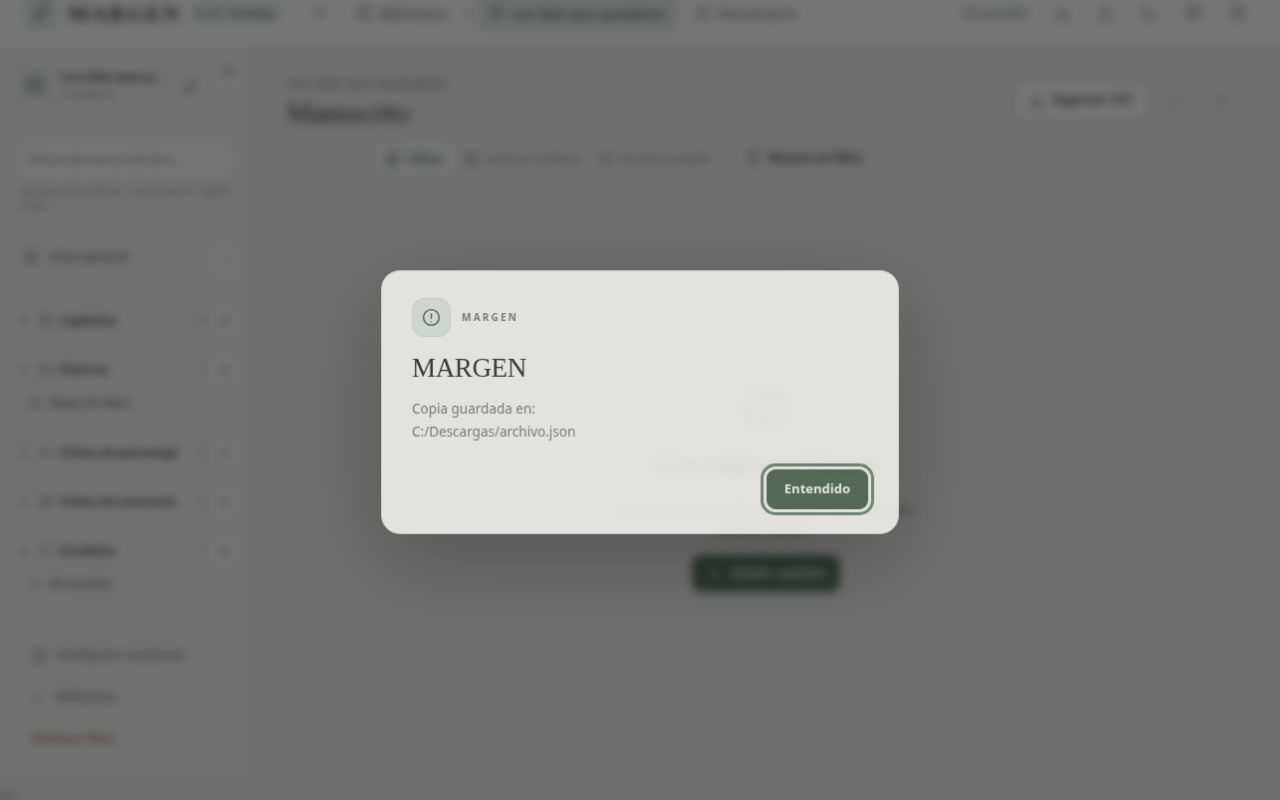
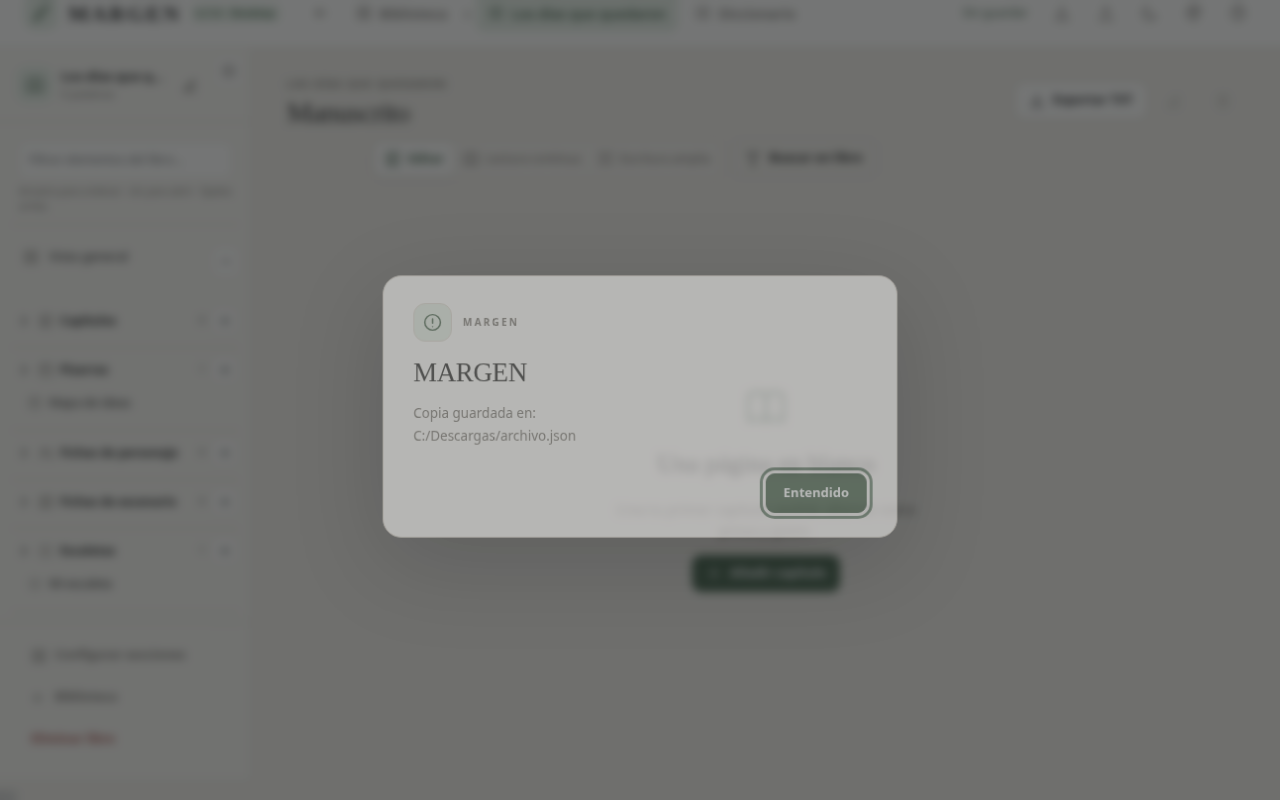
m

Changed region(s): [[0.2812, 0.3125, 0.7188, 0.6875]]

diff --git a/dist/assets/margen-121.js b/dist/assets/margen-121.js
@@ -393,3 +393,81 @@ render=function(){
   m1211R4SyncPanelTop();m1211R4BindEditHistory();
   return result;
 };
+
+
+/* ===== 1.12.1 R5 · historial estructural de pizarra + cronología simplificada ===== */
+function m1211R5BlurBoardEditor(){
+  const active=document.activeElement;
+  if(active?.closest?.('#board-items')&&active.matches?.('input,textarea,[contenteditable="true"]'))active.blur();
+}
+
+/* Mover/redimensionar es una operación estructural: siempre nace con un snapshot
+   propio y saca el foco de los campos de texto para que Ctrl+Z no termine en el
+   historial nativo del input después de soltar el objeto. */
+const m1211R5PrevStartItemDrag=startItemDrag;
+startItemDrag=function(event,item,node,kind){
+  if(state.view==='boards'&&activeBoard()?.boardType==='free'){
+    m1211R5BlurBoardEditor();
+    pushBoardUndo();
+  }
+  return m1211R5PrevStartItemDrag(event,item,node,kind);
+};
+
+const m1211R5PrevDeleteSelected=deleteSelected;
+deleteSelected=function(){
+  if(state.view==='boards'&&activeBoard()?.boardType==='free')m1211R5BlurBoardEditor();
+  return m1211R5PrevDeleteSelected();
+};
+
+/* Los tiradores nuevos no pasan por startItemDrag; aseguramos foco e historial
+   antes de cualquier resize. La deduplicación de pushBoardUndo evita snapshots
+   repetidos aunque una capa anterior ya hubiese guardado el mismo estado. */
+function m1211R5BindStructuralBoardHistory(){
+  if(state.view!=='boards'||activeBoard()?.boardType!=='free')return;
+  document.querySelectorAll('#board-items .m1211-resize,[data-m1211-stamp-hit]').forEach(handle=>{
+    if(handle.dataset.m1211R5HistoryBound)return;
+    handle.dataset.m1211R5HistoryBound='1';
+    handle.addEventListener('pointerdown',()=>{m1211R5BlurBoardEditor();pushBoardUndo()},true);
+  });
+}
+
+const m1211R5PrevRenderBoardElements=renderBoardElements;
+renderBoardElements=function(){const result=m1211R5PrevRenderBoardElements();m1211R5BindStructuralBoardHistory();return result};
+
+/* La línea temporal deja de mostrar índice y óvalo: cada acontecimiento conserva
+   únicamente su tallo vertical hacia la línea principal. */
+const m1211R5PrevTimePoint=m131TimePoint;
+m131TimePoint=function(event,index){
+  return m1211R5PrevTimePoint(event,index)
+    .replace(/<span class="m131-time-dot"><\/span>/,'')
+    .replace(/<span class="m131-time-order"[^>]*>[\s\S]*?<\/span>/,'');
+};
+
+/* El color se escribe siempre en el objeto del acontecimiento y, al cerrar el
+   selector, se fuerza el guardado del libro. Así no depende sólo del repaint. */
+const m1211R5PrevBindTimeline=m1211BindTimeline;
+m1211BindTimeline=function(){
+  m1211R5PrevBindTimeline();
+  if(state.view!=='chronologies')return;
+  const t=activeChronology(),picker=document.querySelector('#m131-time-editor [data-m1211-event-color]');
+  if(!t||!picker)return;
+  let undoCaptured=false;
+  const current=()=>t.events.find(x=>x.id===m131TimelineSelectedId)||m131CurrentEvent();
+  const capture=()=>{if(!undoCaptured){m1211PushChronUndo(t);undoCaptured=true}};
+  const apply=()=>{
+    const event=current();if(!event)return;
+    const value=/^#[0-9a-fA-F]{6}$/.test(picker.value||'')?picker.value.toLowerCase():m1211Palette[0];
+    event.color=value;picker.value=value;m1211ApplyTimelineColor(event.id,value);changed();
+  };
+  picker.onpointerdown=capture;
+  picker.onfocus=capture;
+  picker.oninput=()=>{capture();apply()};
+  picker.onchange=()=>{capture();apply();undoCaptured=false;try{const out=save?.();out?.catch?.(()=>{})}catch(_e){}};
+};
+
+const m1211R5PrevRender=render;
+render=function(){
+  const result=m1211R5PrevRender();
+  m1211R5BindStructuralBoardHistory();
+  return result;
+};

diff --git a/frontend/assets/margen-121.js b/frontend/assets/margen-121.js
@@ -393,3 +393,81 @@ render=function(){
   m1211R4SyncPanelTop();m1211R4BindEditHistory();
   return result;
 };
+
+
+/* ===== 1.12.1 R5 · historial estructural de pizarra + cronología simplificada ===== */
+function m1211R5BlurBoardEditor(){
+  const active=document.activeElement;
+  if(active?.closest?.('#board-items')&&active.matches?.('input,textarea,[contenteditable="true"]'))active.blur();
+}
+
+/* Mover/redimensionar es una operación estructural: siempre nace con un snapshot
+   propio y saca el foco de los campos de texto para que Ctrl+Z no termine en el
+   historial nativo del input después de soltar el objeto. */
+const m1211R5PrevStartItemDrag=startItemDrag;
+startItemDrag=function(event,item,node,kind){
+  if(state.view==='boards'&&activeBoard()?.boardType==='free'){
+    m1211R5BlurBoardEditor();
+    pushBoardUndo();
+  }
+  return m1211R5PrevStartItemDrag(event,item,node,kind);
+};
+
+const m1211R5PrevDeleteSelected=deleteSelected;
+deleteSelected=function(){
+  if(state.view==='boards'&&activeBoard()?.boardType==='free')m1211R5BlurBoardEditor();
+  return m1211R5PrevDeleteSelected();
+};
+
+/* Los tiradores nuevos no pasan por startItemDrag; aseguramos foco e historial
+   antes de cualquier resize. La deduplicación de pushBoardUndo evita snapshots
+   repetidos aunque una capa anterior ya hubiese guardado el mismo estado. */
+function m1211R5BindStructuralBoardHistory(){
+  if(state.view!=='boards'||activeBoard()?.boardType!=='free')return;
+  document.querySelectorAll('#board-items .m1211-resize,[data-m1211-stamp-hit]').forEach(handle=>{
+    if(handle.dataset.m1211R5HistoryBound)return;
+    handle.dataset.m1211R5HistoryBound='1';
+    handle.addEventListener('pointerdown',()=>{m1211R5BlurBoardEditor();pushBoardUndo()},true);
+  });
+}
+
+const m1211R5PrevRenderBoardElements=renderBoardElements;
+renderBoardElements=function(){const result=m1211R5PrevRenderBoardElements();m1211R5BindStructuralBoardHistory();return result};
+
+/* La línea temporal deja de mostrar índice y óvalo: cada acontecimiento conserva
+   únicamente su tallo vertical hacia la línea principal. */
+const m1211R5PrevTimePoint=m131TimePoint;
+m131TimePoint=function(event,index){
+  return m1211R5PrevTimePoint(event,index)
+    .replace(/<span class="m131-time-dot"><\/span>/,'')
+    .replace(/<span class="m131-time-order"[^>]*>[\s\S]*?<\/span>/,'');
+};
+
+/* El color se escribe siempre en el objeto del acontecimiento y, al cerrar el
+   selector, se fuerza el guardado del libro. Así no depende sólo del repaint. */
+const m1211R5PrevBindTimeline=m1211BindTimeline;
+m1211BindTimeline=function(){
+  m1211R5PrevBindTimeline();
+  if(state.view!=='chronologies')return;
+  const t=activeChronology(),picker=document.querySelector('#m131-time-editor [data-m1211-event-color]');
+  if(!t||!picker)return;
+  let undoCaptured=false;
+  const current=()=>t.events.find(x=>x.id===m131TimelineSelectedId)||m131CurrentEvent();
+  const capture=()=>{if(!undoCaptured){m1211PushChronUndo(t);undoCaptured=true}};
+  const apply=()=>{
+    const event=current();if(!event)return;
+    const value=/^#[0-9a-fA-F]{6}$/.test(picker.value||'')?picker.value.toLowerCase():m1211Palette[0];
+    event.color=value;picker.value=value;m1211ApplyTimelineColor(event.id,value);changed();
+  };
+  picker.onpointerdown=capture;
+  picker.onfocus=capture;
+  picker.oninput=()=>{capture();apply()};
+  picker.onchange=()=>{capture();apply();undoCaptured=false;try{const out=save?.();out?.catch?.(()=>{})}catch(_e){}};
+};
+
+const m1211R5PrevRender=render;
+render=function(){
+  const result=m1211R5PrevRender();
+  m1211R5BindStructuralBoardHistory();
+  return result;
+};

diff --git a/dist/assets/margen-121.css b/dist/assets/margen-121.css
@@ -147,3 +147,15 @@
   box-shadow:0 0 0 2px color-mix(in srgb,var(--m1211-event) 20%,transparent)!important;
 }
 .m131-time-point .m131-time-card small{color:color-mix(in srgb,var(--m1211-event) 72%,var(--ink))!important}
+
+
+/* ===== 1.12.1 R5 · cronología limpia ===== */
+/* Sin números ni óvalos: sólo línea principal + tallo vertical de cada evento. */
+.m131-time-point .m131-time-dot,
+.m131-time-point .m131-time-order{display:none!important}
+.m131-time-point:before{
+  width:3px!important;
+  border-radius:3px!important;
+  background:var(--m1211-event)!important;
+  box-shadow:none!important;
+}

diff --git a/frontend/assets/margen-121.css b/frontend/assets/margen-121.css
@@ -147,3 +147,15 @@
   box-shadow:0 0 0 2px color-mix(in srgb,var(--m1211-event) 20%,transparent)!important;
 }
 .m131-time-point .m131-time-card small{color:color-mix(in srgb,var(--m1211-event) 72%,var(--ink))!important}
+
+
+/* ===== 1.12.1 R5 · cronología limpia ===== */
+/* Sin números ni óvalos: sólo línea principal + tallo vertical de cada evento. */
+.m131-time-point .m131-time-dot,
+.m131-time-point .m131-time-order{display:none!important}
+.m131-time-point:before{
+  width:3px!important;
+  border-radius:3px!important;
+  background:var(--m1211-event)!important;
+  box-shadow:none!important;
+}

diff --git a/pruebas/test_1121_visual_tools.py b/pruebas/test_1121_visual_tools.py
@@ -98,6 +98,21 @@ with sync_playwright() as pw:
  assert page.evaluate("!activeBoard().elements.some(x=>x.id==='n1'||x.id==='n2')")
  page.keyboard.press('Control+z');page.wait_for_timeout(50)
  assert page.evaluate("activeBoard().elements.some(x=>x.id==='n1')&&activeBoard().elements.some(x=>x.id==='n2')")
+ # Movimiento real de una nota debe entrar en el historial estructural.
+ page.evaluate("boardSelectedIds.clear();selectedElement=null;m1211SyncBoardSelection()")
+ oldpos=page.evaluate("(()=>{const n=activeBoard().elements.find(x=>x.id==='n1');return [n.x,n.y]})()")
+ n1=page.locator('.board-item[data-eid="n1"]');nb=n1.bounding_box()
+ page.mouse.move(nb['x']+nb['width']*0.55,nb['y']+nb['height']*0.72);page.mouse.down();page.mouse.move(nb['x']+nb['width']*0.55+55,nb['y']+nb['height']*0.72+28,steps=8);page.mouse.up();page.wait_for_timeout(45)
+ moved=page.evaluate("(()=>{const n=activeBoard().elements.find(x=>x.id==='n1');return [n.x,n.y]})()")
+ assert moved!=oldpos,(oldpos,moved)
+ page.keyboard.press('Control+z');page.wait_for_timeout(60)
+ restored=page.evaluate("(()=>{const n=activeBoard().elements.find(x=>x.id==='n1');return [n.x,n.y]})()")
+ assert restored==oldpos,(oldpos,moved,restored)
+ # Y borrar después de una operación estructural también debe poder recuperarse.
+ handle=page.locator('.board-item[data-eid="n1"] .item-handle');hb=handle.bounding_box();page.mouse.move(hb['x']+4,hb['y']+4);page.mouse.down();page.mouse.up();page.wait_for_timeout(20);page.keyboard.press('Delete');page.wait_for_timeout(40)
+ assert page.evaluate("!activeBoard().elements.some(x=>x.id==='n1')")
+ page.keyboard.press('Control+z');page.wait_for_timeout(60)
+ assert page.evaluate("activeBoard().elements.some(x=>x.id==='n1')")
  # Marco arrastrando sobre el fondo también selecciona ambas notas.
  page.evaluate("boardSelectedIds.clear();selectedElement=null;m1211SyncBoardSelection()")
  wr=page.locator('#board-world').bounding_box();vp=page.locator('#board-viewport').bounding_box()
@@ -138,6 +153,8 @@ with sync_playwright() as pw:
  # Cronología: color visible + controles bajo la línea + arrastre por puntero + Ctrl+Z.
  page.evaluate("()=>{state.view='chronologies';state.activeChronologyId='t1';m131TimelineSelectedChron='t1';m131TimelineSelectedId='e1';render()}");page.wait_for_timeout(100)
  assert page.locator('[data-m1211-event-color]').count()==1
+ assert page.locator('.m131-time-dot').count()==0
+ assert page.locator('.m131-time-order').count()==0
  row=page.locator('[data-m1211-timeline-insert-row]'); assert row.count()==1
  assert row.locator('[data-m1211-insert="before"]').count()==1 and row.locator('[data-m1211-insert="after"]').count()==1
  assert page.locator('#m131-time-editor [data-m1211-insert]').count()==0

diff --git a/pruebas/test_111_distribution.py b/pruebas/test_111_distribution.py
@@ -71,6 +71,6 @@ for required in ['DB_SCHEMA_VERSION','schema_migrations','desktop_startup_health
     assert required in rust,required
 assert 'texto de capítulos' not in rust.lower() or 'no incluye el texto de capítulos' in rust.lower()
 conf=json.loads((root/'src-tauri/tauri.conf.json').read_text('utf8'))
-assert conf['identifier']=='com.margen.escritorio' and conf['version']=='1.12.0'
+assert conf['identifier']=='com.margen.escritorio' and conf['version']=='1.12.1'
 assert 'margen-111.js' in (root/'herramientas_frontend.py').read_text('utf8')
 print('PASS 1.11: versión/datos, copias, diagnóstico, migración formal y cierre inesperado')

diff --git a/CAMBIOS_1121.md b/CAMBIOS_1121.md
@@ -64,3 +64,10 @@
 - Cronología: tarjeta, tallo y punto muestran el color; la línea general permanece neutra para evitar mezclas visuales entre acontecimientos.
 - Cronología: se refuerza el arrastre manual mediante eventos de puntero a nivel de documento.
 - El workflow de Windows permanece byte por byte idéntico al de la Revisión 3 que ya compila correctamente.
+
+
+## Beta 1.12.1 · Revisión 5
+- Pizarra: historial estructural reforzado para mover, redimensionar y borrar elementos; el foco de edición ya no secuestra Ctrl+Z tras una operación de lienzo.
+- Cronología: eliminados números y óvalos de la línea; quedan la línea principal y los tallos de cada acontecimiento.
+- Cronología: el color se persiste en el acontecimiento y fuerza guardado al confirmar el selector de color.
+- Build de Windows: sin cambios respecto a la revisión que ya compila correctamente.
